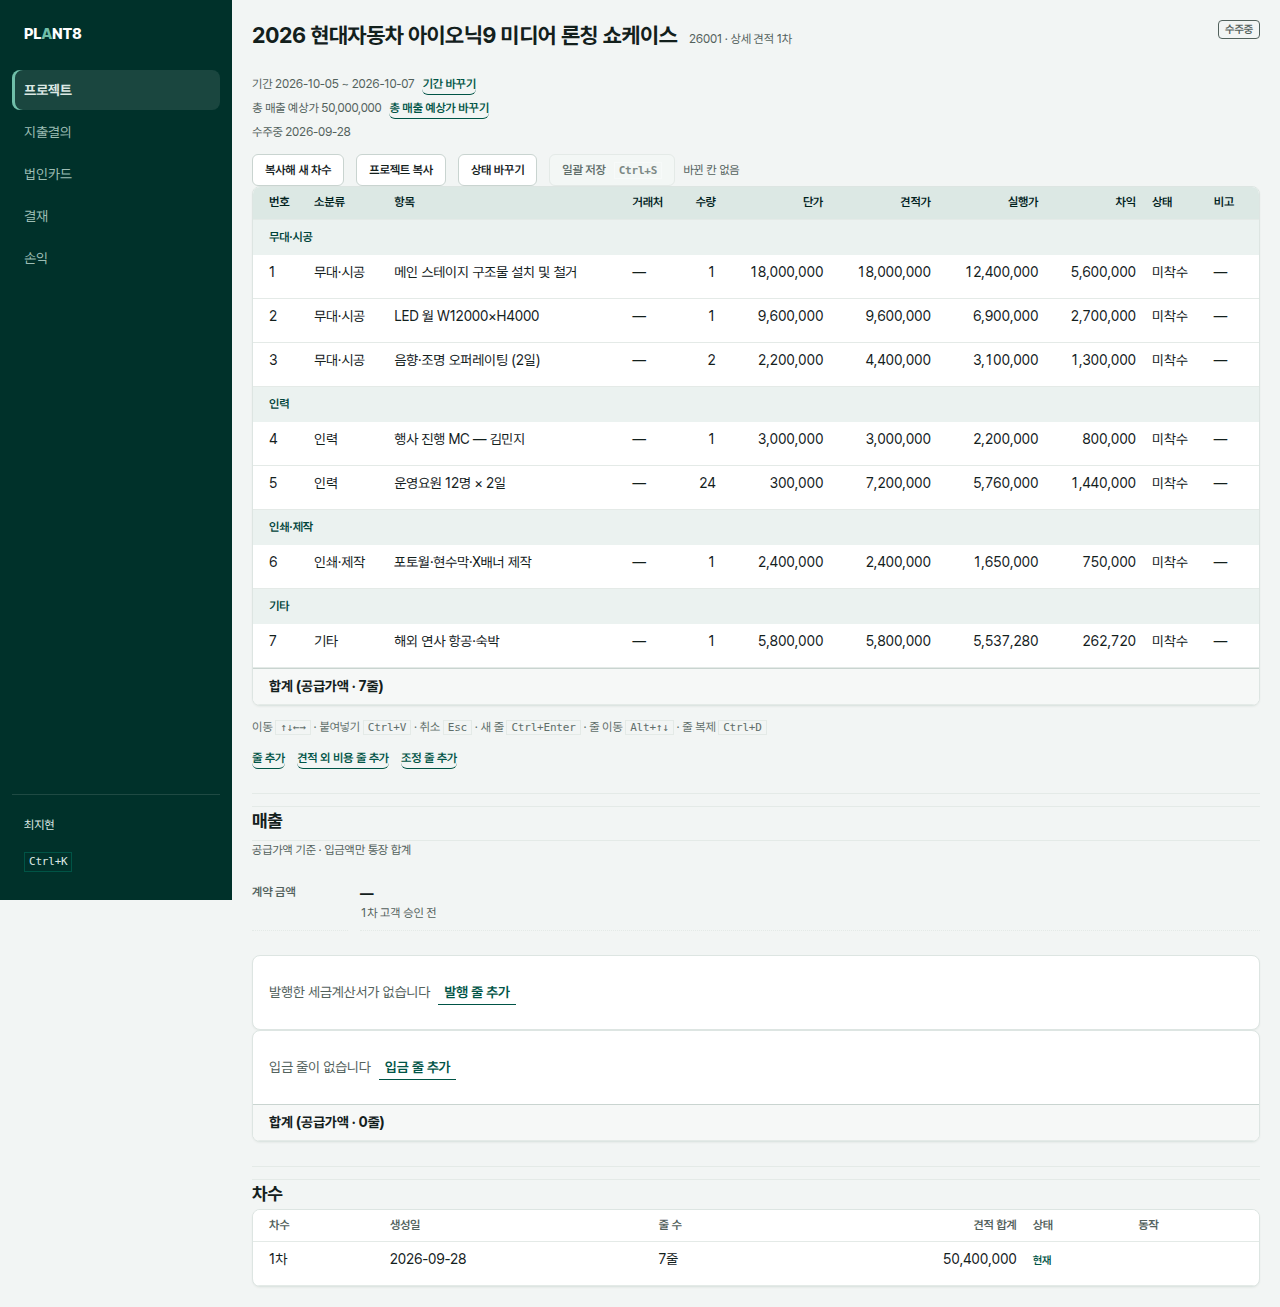
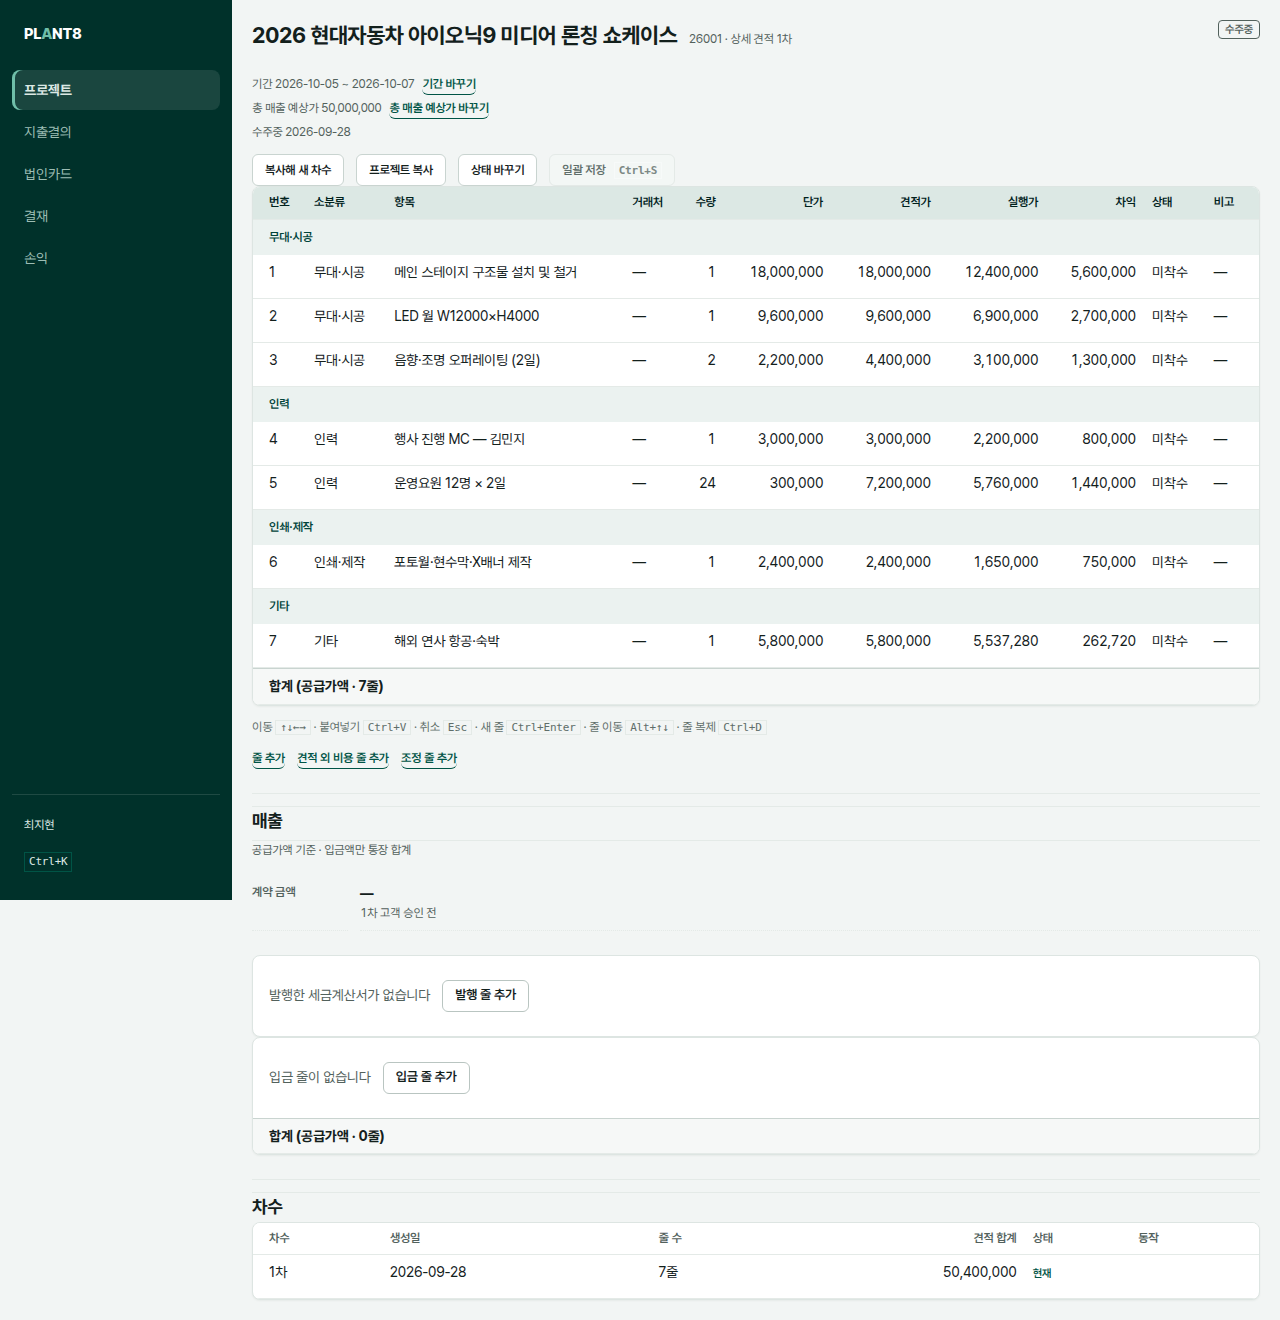
docs: 실물 보드 — 사용성 원칙 반영(설명 부제 제거 · 등록 주 버튼 · 저장 사유 문구 숨김 · 빈 표 첫 행동 버튼 · 삭제 분리)
Claude-Session: https://claude.ai/code/session_017bh7NBUNgC9qcJXJQKF2fo

diff --git a/docs/design/explore-skin/real/_common.css b/docs/design/explore-skin/real/_common.css
@@ -51,3 +51,23 @@ html body td [class*="Button-module__"] [class*="__tertiary"] { font-size: 13px 
 /* 모달 안 칸: 라벨 위 · 입력 아래 한 줄 기둥으로 통일 */
 html body main > form:has([class*="__formActions"]) div:is([class*="__row"], [class*="__selectLabel"]) { display: flex !important; flex-direction: column; align-items: stretch; gap: 4px; margin: 0 0 12px; }
 html body main > form:has([class*="__formActions"]) :is(label, [class*="__label"]) { padding: 0 !important; font-size: 13px; font-weight: 600; }
+
+/* ③ 화면 사용성 원칙(.claude/rules/frontend.md) — 안내 문구 최소 · 행동으로 유도 */
+/* 목록 부제 「진행 중인 프로젝트 원장」 = 설명문 → 뺀다(제목·메뉴가 위치를 말한다) */
+html body main:has([class*="projects-module__"][class*="__filterRow"]) [class*="PageHeader-module__"][class*="__subtitle"] { display: none; }
+/* 목록의 다음 행동 「프로젝트 등록」은 밑줄 글자가 아니라 주 버튼 하나로 */
+html body [class*="__filterRow"] > a[class*="__toggle"][href*="new=1"] {
+  display: inline-flex; align-items: center; height: 36px; padding: 0 16px; border-radius: 6px; margin-left: auto;
+  background: var(--accent); color: #FFFFFF; text-decoration: none; font-size: 14px; font-weight: 600;
+}
+/* 저장할 것이 없을 때 「바뀐 칸 없음」 문구 → 화면에서 빼고(스크린리더용 설명만 유지) 비활성 버튼 모양으로만 말한다 */
+html body [class*="Button-module__"][class*="__reasonInfo"] { position: absolute; width: 1px; height: 1px; overflow: hidden; clip-path: inset(50%); }
+/* 빈 표: 「…없습니다」 설명보다 첫 행동이 먼저 보이게 — 행동을 2차 버튼으로 */
+html body [class*="Table-module__"][class*="__emptyCell"] { color: var(--muted); }
+html body [class*="Table-module__"][class*="__emptyAction"] {
+  display: inline-flex; align-items: center; height: 32px; padding: 0 12px; margin-left: 12px; border: 1px solid #B9C5C1; border-radius: 6px;
+  background: #FFFFFF; color: var(--fg); text-decoration: none; font-size: 13px; font-weight: 600;
+}
+/* 위험한 동작은 떨어뜨려 둔다: 삭제를 수정·숨기기와 떼고 위험 색으로 */
+html body td > [class*="__toggle"] ~ [class*="Button-module__"]:last-child { margin-left: 28px; }
+html body td > [class*="__toggle"] ~ [class*="Button-module__"]:last-child [class*="__tertiary"] { color: var(--danger) !important; }
